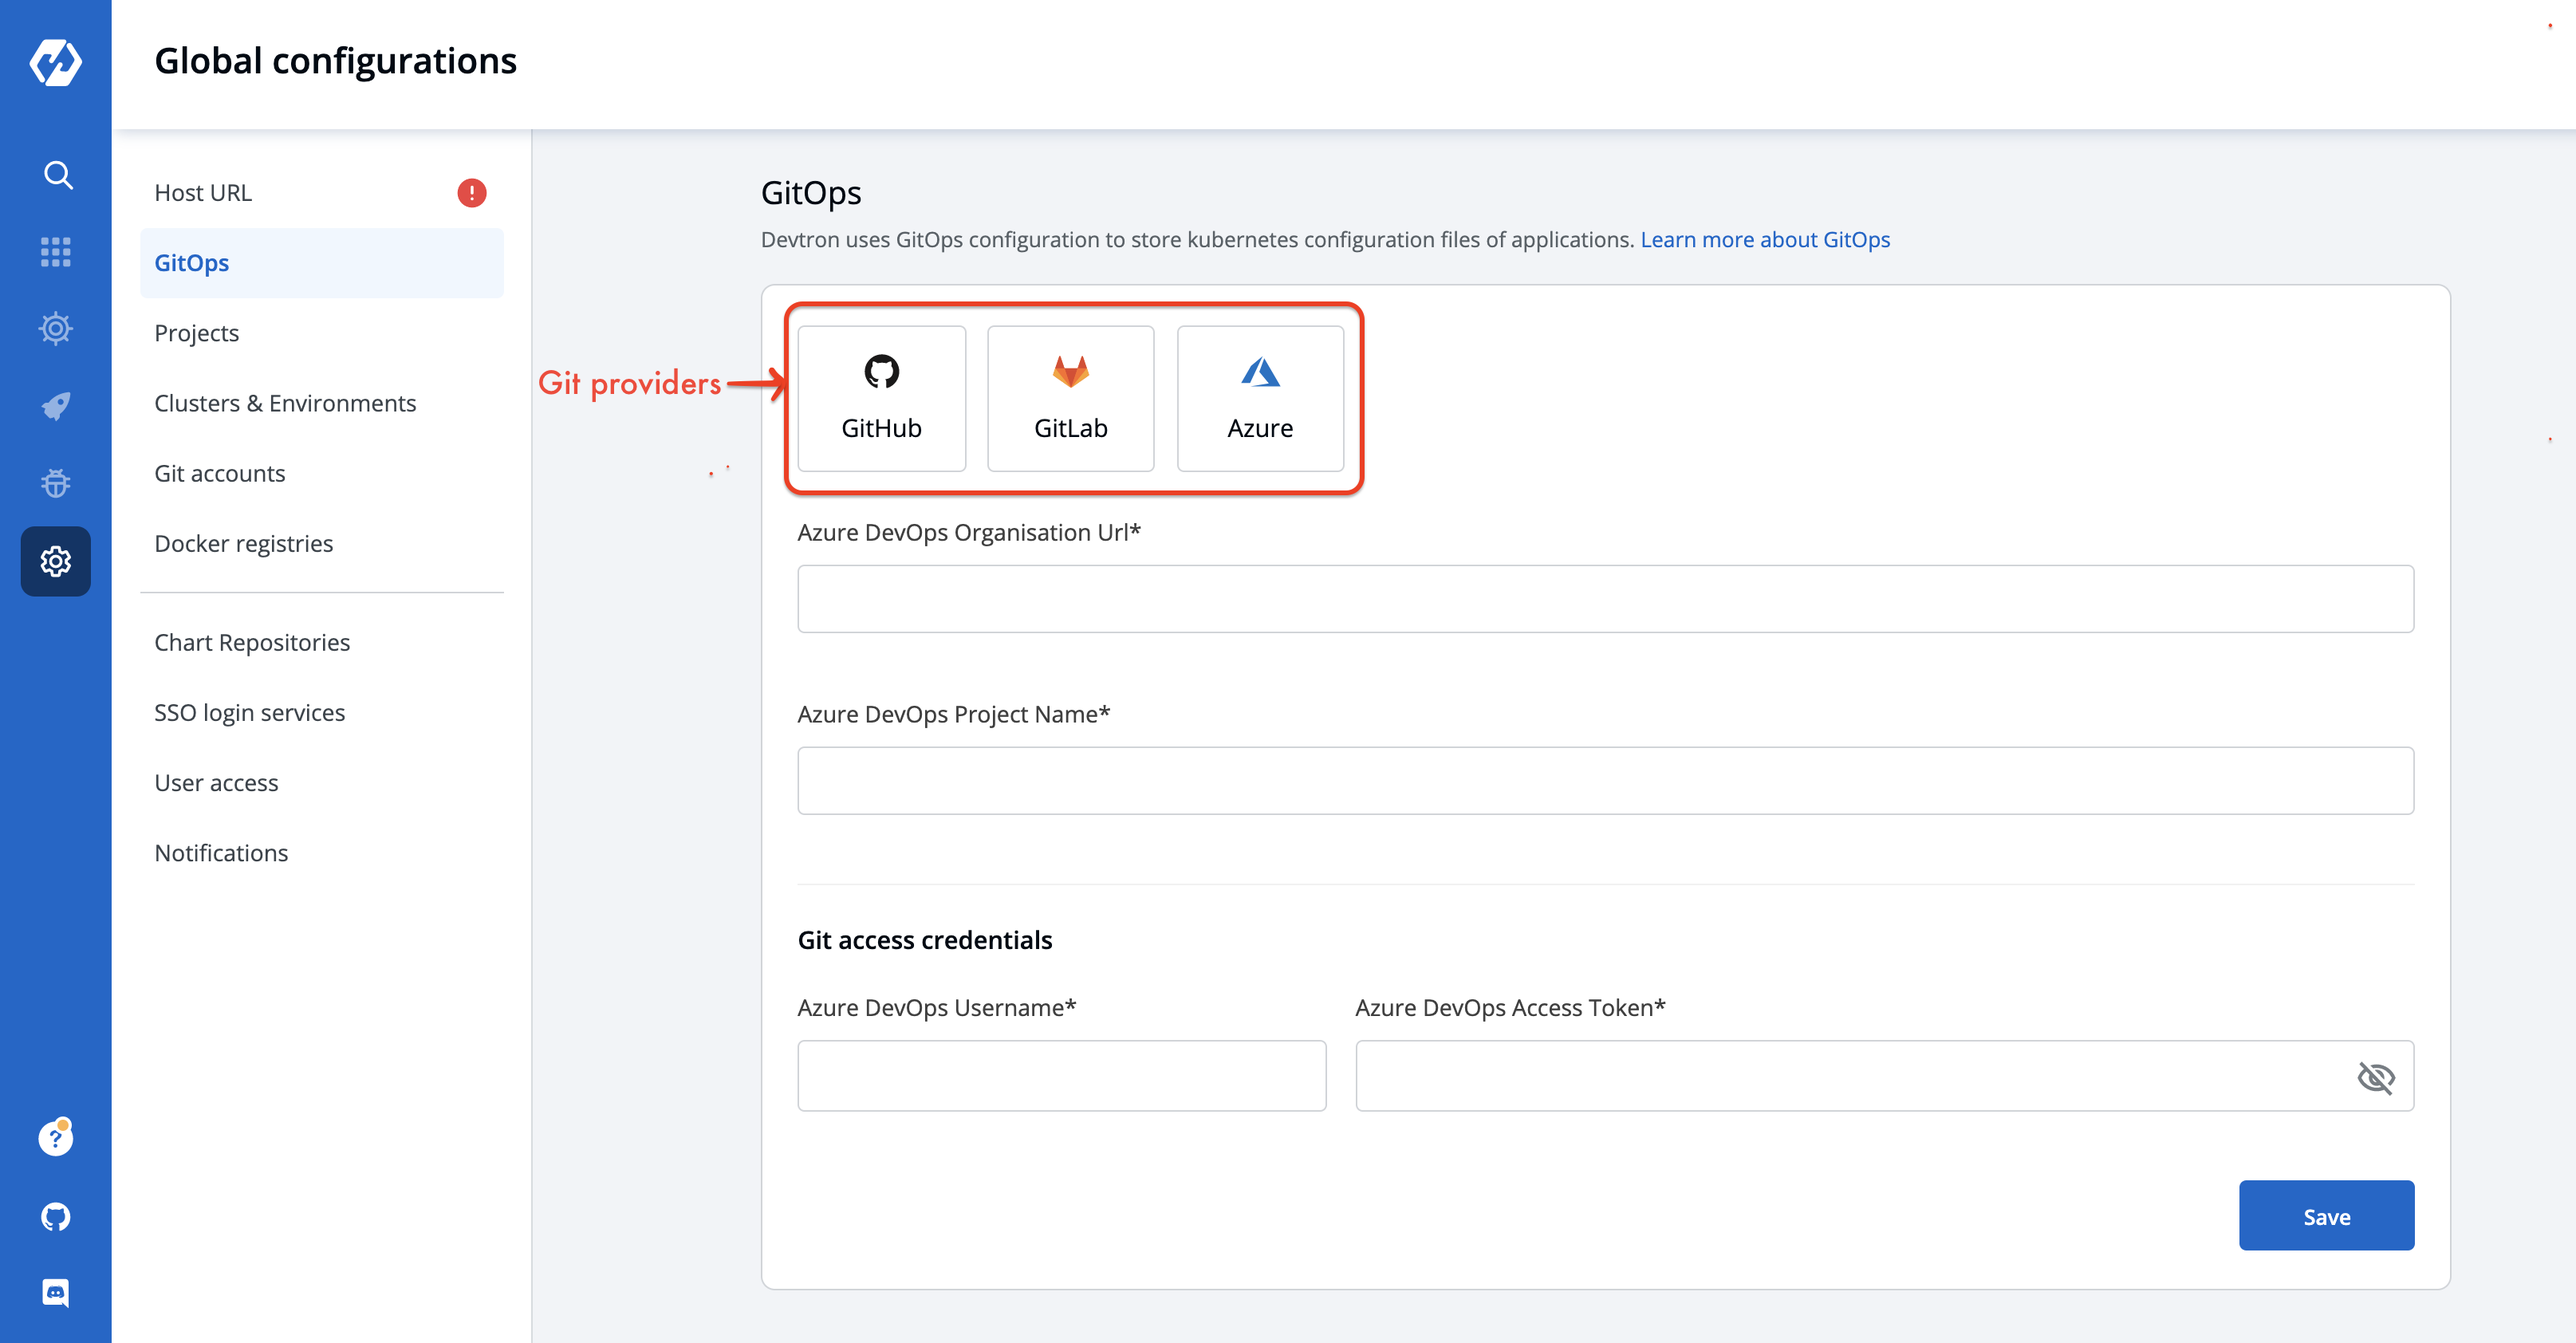
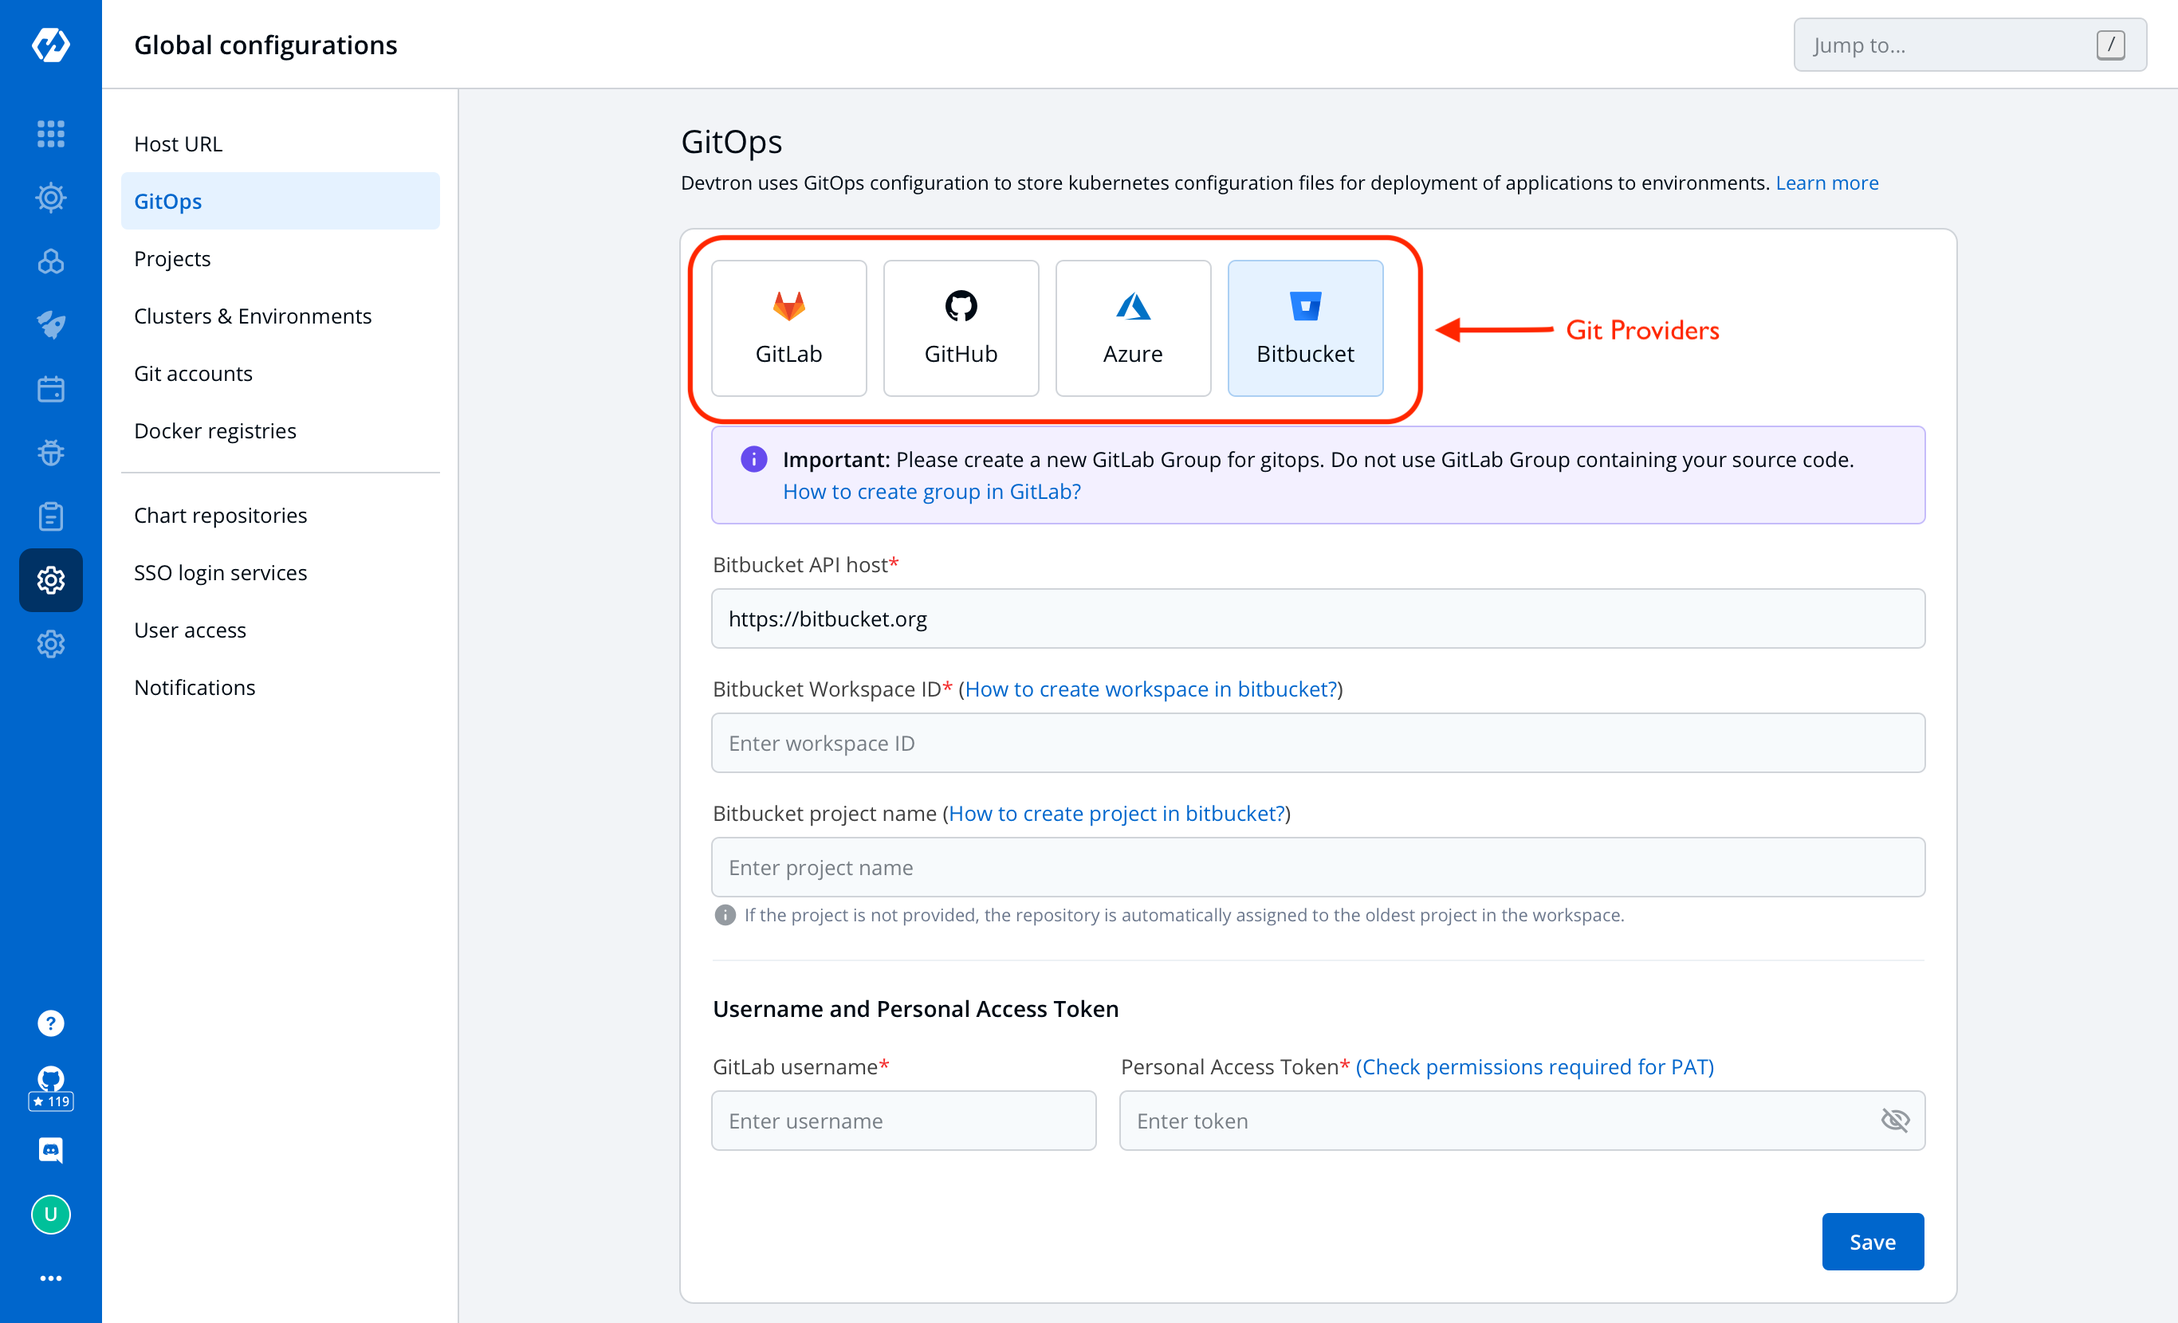
updated open api & doc for bitbucket

diff --git a/docs/user-guide/global-configurations/gitops.md b/docs/user-guide/global-configurations/gitops.md
@@ -1,6 +1,6 @@
-# Gitops
+# GitOps
 
-## Why Devtron takes Gitops Configuration?
+## Why Devtron takes GitOps Configuration?
 Devtron uses GitOps and stores configurations in git; Git Credentials can be entered at `Global Configuration > GitOps` which is used by Devtron for configuration management and storing desired state of the application configuration. 
 In case GitOps is not configured, Devtron cannot deploy any application or charts. 
 
@@ -13,30 +13,36 @@ Areas impacted by GitOps are:
 
 ## Add Git Configuration
 
-Select the Gitops section of global configuration. At the top of the section, three Git providers are available.
+Select the GitOps section of global configuration. At the top of the section, three Git providers are available.
 
 * **GitHub**
 * **GitLab**
 * **Azure**
+* **BitBucket**
 
 ![](../../.gitbook/assets/gc-gitops-provider.png)
 
-Select one of the Git providers. To add git account, You need to provide three inputs as given below:
-1. Git Host / Azure DevOps Organisation Url <br />
-2. Github Organization Name / Gitlab Group id / Azure DevOps Project Name <br />
-3. Git access credential <br />
+Select one of the Git providers. To add git account, You need to provide the following inputs as given below:
+1. Git Host / Azure DevOps Organisation Url / BitBucket Host <br />
+2. GitHub Organization Name / Gitlab Group id / Azure DevOps Project Name / BitBucket Workspace ID <br />
+3. BitBucket Project Key (only for BitBucket) <br />
+4. Git access credential <br />
 
 ### 1. Git Host: 
 
-This field is filled by default, Showing the URL of the selected git providers. For example- https://github.com for Github, https://gitlab.com for GitLab, https://dev.azure.com/ for Azure. Please replace them if they are not the url you want to use.
+This field is filled by default, Showing the URL of the selected git providers. For example- https://github.com for GitHub, https://gitlab.com for GitLab, https://dev.azure.com/ for Azure & https://bitbucket.org for BitBucket. Please replace them(not available for GitHub & BitBucket) if they are not the url you want to use.
 
-### 2. Github Organization Name / GitLab Group Id / Azure DevOps Project Name:
+### 2. GitHub Organization Name / GitLab Group ID / Azure DevOps Project Name / BitBucket Workspace ID:
 
-In the case of Github provide `Github Organization Name*`. Learn more about [GitHub organization Name](https://docs.github.com/en/github/setting-up-and-managing-organizations-and-teams/about-organizations) <br />
-In the case of Gitlab provide `Gitlab group Id*`. Learn more about [Gitlab group Id](https://docs.gitlab.com/ee/user/group/) <br />
-Similarly in the case of Azure provide `Azure DevOps Project Name*`. Learn more about [Azure DevOps Project Name](https://docs.microsoft.com/en-us/azure/devops/organizations/projects/create-project?view=azure-devops&tabs=preview-page)
+In the case of GitHub provide `Github Organization Name*`. Learn more about [Github organization Name](https://docs.github.com/en/github/setting-up-and-managing-organizations-and-teams/about-organizations). <br />
+In the case of Gitlab provide `Gitlab group Id*`. Learn more about [Gitlab group Id](https://docs.gitlab.com/ee/user/group/). <br />
+Similarly in the case of Azure provide `Azure DevOps Project Name*`. Learn more about [Azure DevOps Project Name](https://docs.microsoft.com/en-us/azure/devops/organizations/projects/create-project?view=azure-devops&tabs=preview-page). <br />
+For Bitbucket, provide `Bitbucket Workspace Id*`. Learn more about [Bitbucket Workspace Id](https://support.atlassian.com/bitbucket-cloud/docs/what-is-a-workspace/).
 
-### 3. Git access credential
+### 3. BitBucket Project Key: 
+
+This field is non-mandatory and is only to be filled when you have chosen Bitbucket as your git provider. If not provided, the oldest project in the workspace will be used. Learn more about [Bitbucket Project Key](https://support.atlassian.com/bitbucket-cloud/docs/group-repositories-into-projects/).
+### 4. Git access credential
 
 Provide Git `Username` and `Personal Access Token` of your git account. 
 
@@ -46,13 +52,13 @@ Username for your git account.
 **\(b\) Personal Access Token**  
 A personal access token (PAT) is used as an alternate password to authenticate into your git accounts. 
 
-#### For GithHub [Creating a Github Personal Access Token](https://docs.github.com/en/github/authenticating-to-github/creating-a-personal-access-token):
+#### For GitHub [Creating a GitHub Personal Access Token](https://docs.github.com/en/github/authenticating-to-github/creating-a-personal-access-token):
 
 * repo - Full control of private repositories(Access commit status , Access deployment status and Access public repositories).
 * admin:org - Full control of organizations and teams(Read and write access).
 * delete_repo - Grants delete repo access on private repositories.
 
-#### For GitLab [Creating a Gitlab Personal Access Token](https://docs.gitlab.com/ee/user/profile/personal_access_tokens.html):
+#### For GitLab [Creating a GitLab Personal Access Token](https://docs.gitlab.com/ee/user/profile/personal_access_tokens.html):
 
 * api - Grants complete read/write access to the scoped project API.
 * write_repository - Allows read-write access (pull, push) to the repository. 
@@ -60,11 +66,15 @@ A personal access token (PAT) is used as an alternate password to authenticate i
 #### For Azure DevOps [Creating a Azure DevOps Access Token](https://docs.microsoft.com/en-us/azure/devops/organizations/accounts/use-personal-access-tokens-to-authenticate?view=azure-devops&tabs=preview-page): 
 
 * code - Grants the ability to read source code and metadata about commits, change sets, branches, and other version control artifacts.
-[More Information](https://docs.microsoft.com/en-us/azure/devops/integrate/get-started/authentication/oauth?view=azure-devops#scopes):
+[More Information on scopes in Azure devops](https://docs.microsoft.com/en-us/azure/devops/integrate/get-started/authentication/oauth?view=azure-devops#scopes).
 
-Click on Save to save your gitops configuration details.
+#### For BitBucket [Creating a Bitbucket Personal Access Token (App passwords)](https://support.atlassian.com/bitbucket-cloud/docs/app-passwords/)
+
+* repo - Full control of repositories (Read, Write, Admin, Delete access). 
+
+Click on Save to save your gitOps configuration details.
  
 
 ![](../../.gitbook/assets/gc-gitops-save.png)
 
-> Note: A Green tick will appear on the saved gitops provider.
+> Note: A Green tick will appear on the active gitOps provider.
